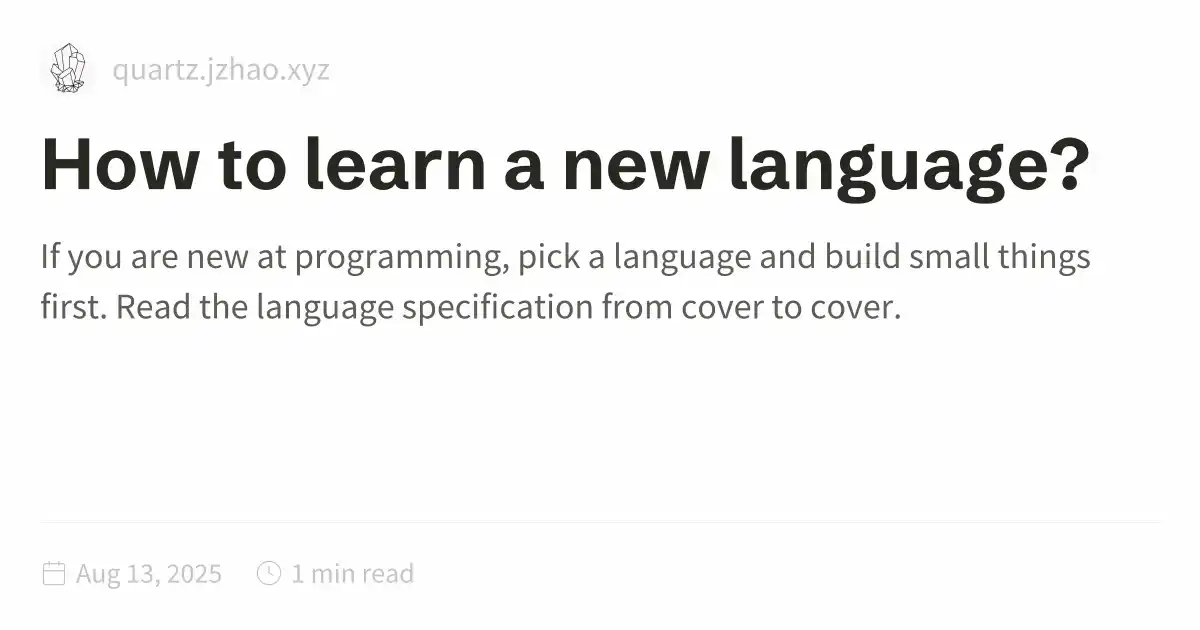
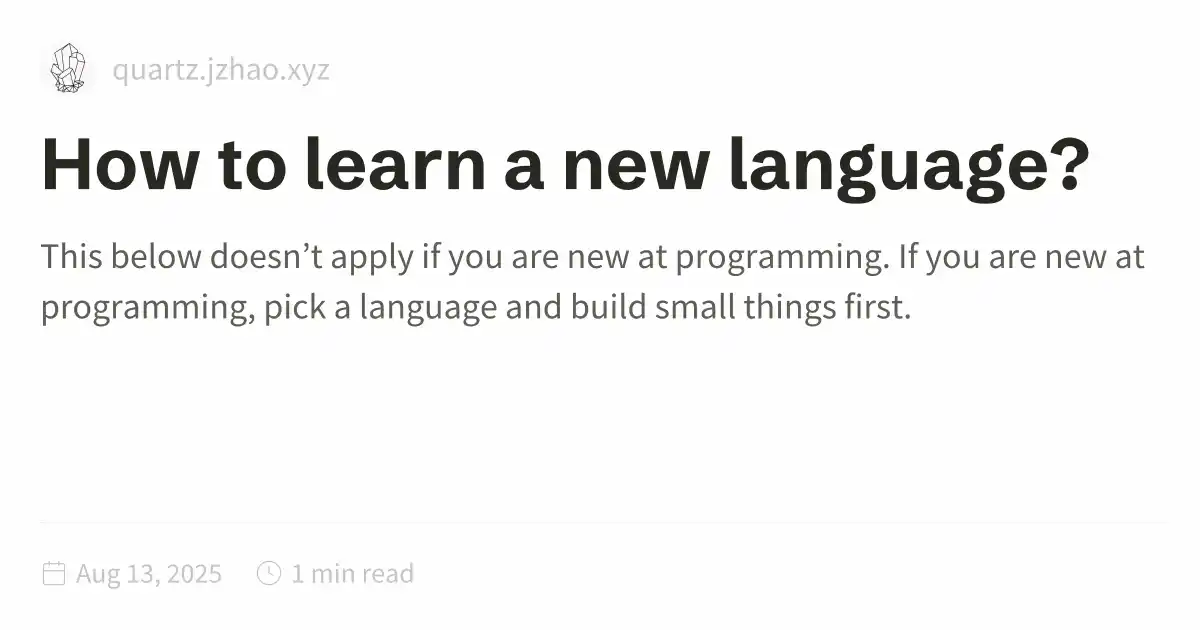
Quartz sync: Aug 13, 2025, 2:28 PM

Changed region(s): [[0.0308, 0.3619, 0.9558, 0.5127]]

diff --git a/public/How-to-learn-a-new-language.html b/public/How-to-learn-a-new-language.html
@@ -1,5 +1,5 @@
 <!DOCTYPE html>
-<html lang="en"><head><title>How to learn a new language?</title><meta charset="utf-8"/><link rel="preconnect" href="https://fonts.googleapis.com"/><link rel="preconnect" href="https://fonts.gstatic.com"/><link rel="stylesheet" href="https://fonts.googleapis.com/css2?family=Schibsted Grotesk:wght@400;700&amp;family=Source Sans Pro:ital,wght@0,400;0,600;1,400;1,600&amp;family=IBM Plex Mono:wght@400;600&amp;display=swap"/><link rel="preconnect" href="https://cdnjs.cloudflare.com" crossorigin="anonymous"/><meta name="viewport" content="width=device-width, initial-scale=1.0"/><meta name="og:site_name" content="Essays"/><meta property="og:title" content="How to learn a new language?"/><meta property="og:type" content="website"/><meta name="twitter:card" content="summary_large_image"/><meta name="twitter:title" content="How to learn a new language?"/><meta name="twitter:description" content="If you are new at programming, pick a language and build small things first. Read the language specification from cover to cover."/><meta property="og:description" content="If you are new at programming, pick a language and build small things first. Read the language specification from cover to cover."/><meta property="og:image:alt" content="If you are new at programming, pick a language and build small things first. Read the language specification from cover to cover."/><meta property="twitter:domain" content="quartz.jzhao.xyz"/><meta property="og:url" content="https://quartz.jzhao.xyz/How-to-learn-a-new-language"/><meta property="twitter:url" content="https://quartz.jzhao.xyz/How-to-learn-a-new-language"/><link rel="icon" href="./static/icon.png"/><meta name="description" content="If you are new at programming, pick a language and build small things first. Read the language specification from cover to cover."/><meta name="generator" content="Quartz"/><link href="./index.css" rel="stylesheet" type="text/css" spa-preserve/><style>.expand-button {
+<html lang="en"><head><title>How to learn a new language?</title><meta charset="utf-8"/><link rel="preconnect" href="https://fonts.googleapis.com"/><link rel="preconnect" href="https://fonts.gstatic.com"/><link rel="stylesheet" href="https://fonts.googleapis.com/css2?family=Schibsted Grotesk:wght@400;700&amp;family=Source Sans Pro:ital,wght@0,400;0,600;1,400;1,600&amp;family=IBM Plex Mono:wght@400;600&amp;display=swap"/><link rel="preconnect" href="https://cdnjs.cloudflare.com" crossorigin="anonymous"/><meta name="viewport" content="width=device-width, initial-scale=1.0"/><meta name="og:site_name" content="Essays"/><meta property="og:title" content="How to learn a new language?"/><meta property="og:type" content="website"/><meta name="twitter:card" content="summary_large_image"/><meta name="twitter:title" content="How to learn a new language?"/><meta name="twitter:description" content="This below doesn’t apply if you are new at programming. If you are new at programming, pick a language and build small things first."/><meta property="og:description" content="This below doesn’t apply if you are new at programming. If you are new at programming, pick a language and build small things first."/><meta property="og:image:alt" content="This below doesn’t apply if you are new at programming. If you are new at programming, pick a language and build small things first."/><meta property="twitter:domain" content="quartz.jzhao.xyz"/><meta property="og:url" content="https://quartz.jzhao.xyz/How-to-learn-a-new-language"/><meta property="twitter:url" content="https://quartz.jzhao.xyz/How-to-learn-a-new-language"/><link rel="icon" href="./static/icon.png"/><meta name="description" content="This below doesn’t apply if you are new at programming. If you are new at programming, pick a language and build small things first."/><meta name="generator" content="Quartz"/><link href="./index.css" rel="stylesheet" type="text/css" spa-preserve/><style>.expand-button {
   position: absolute;
   display: flex;
   float: right;
@@ -116,7 +116,8 @@ pre:hover > .expand-button {
   padding: 0 12px;
   font-size: 14px;
 }
[2 lines of base64/hex data omitted]
+If you are new at programming, pick a language and build small things first.</p>
 <p>Read the language specification from cover to cover.<br/>
 Then read the standard library from cover to cover.</p>
 <p>Don’t stop for too long if you don’t understand something.<br/>

diff --git a/content/How to learn a new language?.md b/content/How to learn a new language?.md
@@ -2,6 +2,7 @@
 title: How to learn a new language?
 draft:
 ---
+This below doesn't apply if you are new at programming.
 If you are new at programming, pick a language and build small things first.  
 
 Read the language specification from cover to cover.  
